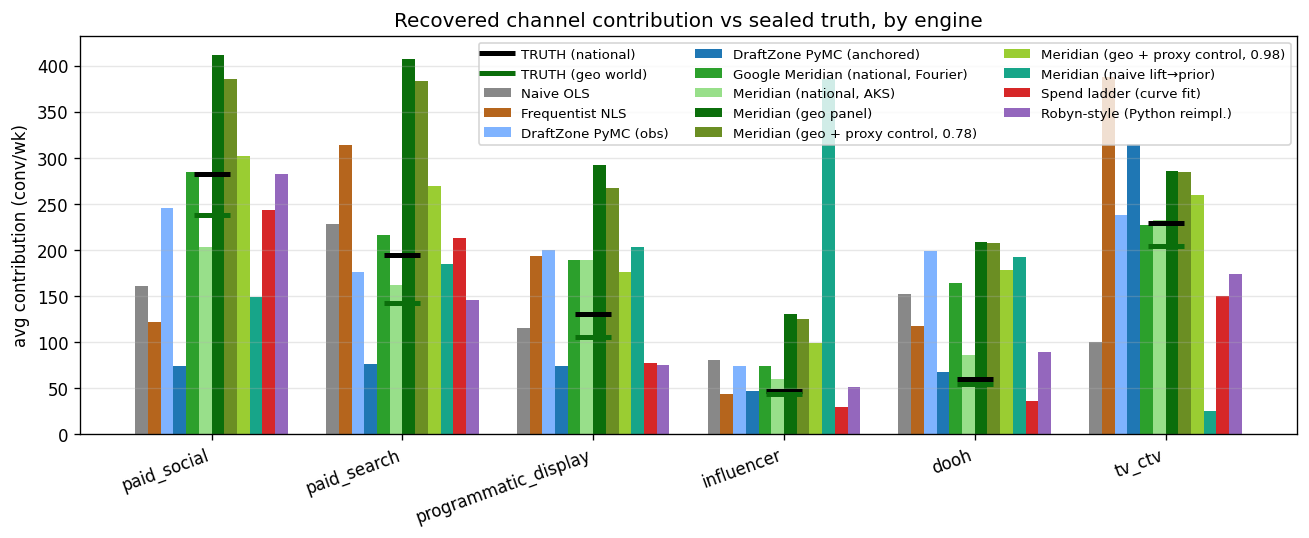
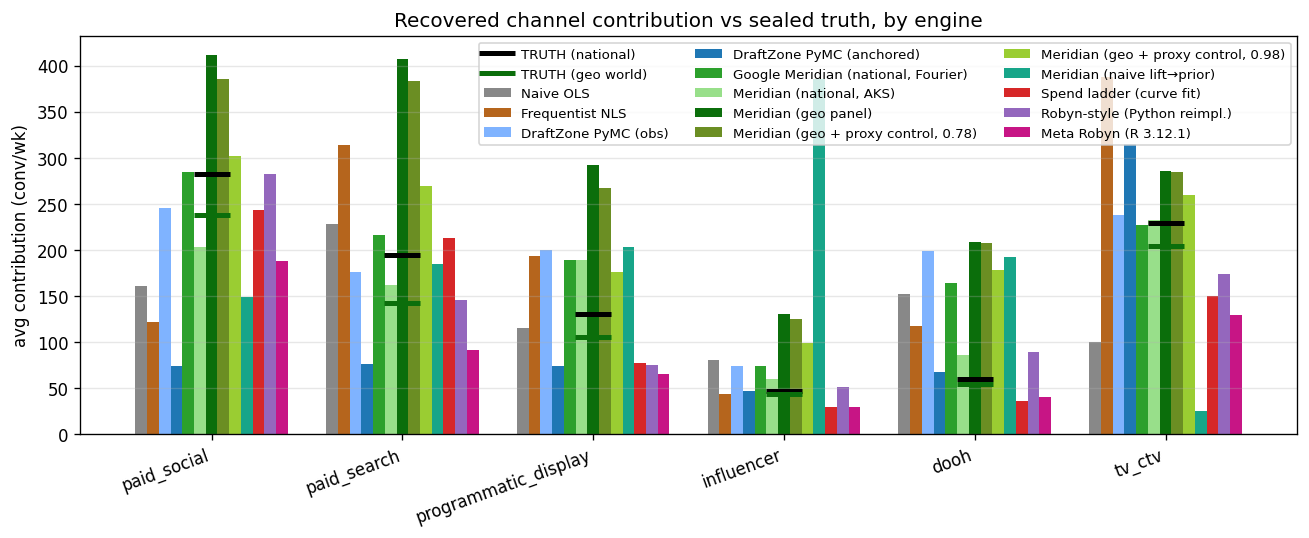
Meta Robyn graded on the leaderboard: MAE 66, bias -42%
The real Robyn run lands mid-pack with a telling split-vs-level pattern: its
channel SHARES are excellent (DECOMP.RSSD 0.025 — effect shares hug spend
shares, which here match truth), but it under-credits the media LEVEL (-42%)
because Prophet's flexible trend absorbs the seasonal-confounded variance into
the baseline. The leaner Python reimplementation (fixed trend + Fourier, not
Prophet) leaves more for media and lands closer (-13%, MAE 32) — same method,
different baseline flexibility, different answer.

- fit_meta_robyn.R: robust n_weeks fallback (rollingWindowLength can be NULL).
- engine_leaderboard: accurate, data-driven Robyn callout contrasting the real
  package and the reimplementation, framing DECOMP.RSSD as a prior and noting
  Robyn is usually run longer with human Pareto selection.
- 25 tests passing.

diff --git a/docs/engines/index.html b/docs/engines/index.html
@@ -44,7 +44,8 @@ key (a lower media total, because targeting concentrates spend into Hill saturat
 </div></header>
 <main class="wrap"><section>
 <div class="card"><img src="leaderboard.png" alt="engine comparison">
-<div class="tablewrap"><table><thead><tr><th>engine</th><th>world</th><th>type</th><th>R²</th><th>MAE/ch ↓</th><th>media bias</th><th>CIs hit</th></tr></thead><tbody><tr><td>Robyn-style (Python reimpl.)</td><td>nat'l</td><td>point</td><td>0.860</td><td>32</td><td>-13%</td><td>—</td></tr><tr><td>Meridian (national, AKS)</td><td>nat'l</td><td>Bayesian</td><td>0.913</td><td>35</td><td>-1%</td><td>6/6</td></tr><tr><td>Google Meridian (national, Fourier)</td><td>nat'l</td><td>Bayesian</td><td>0.860</td><td>36</td><td>+23%</td><td>5/6</td></tr><tr><td>Spend ladder (curve fit)</td><td>nat'l</td><td>Bayesian</td><td>—</td><td>39</td><td>-21%</td><td>4/6</td></tr><tr><td>DraftZone PyMC (obs)</td><td>nat'l</td><td>Bayesian</td><td>0.854</td><td>50</td><td>+20%</td><td>5/6</td></tr><tr><td>Naive OLS</td><td>nat'l</td><td>point</td><td>0.679</td><td>71</td><td>-11%</td><td>—</td></tr><tr><td>DraftZone PyMC (anchored)</td><td>nat'l</td><td>Bayesian</td><td>0.794</td><td>79</td><td>-31%</td><td>6/6</td></tr><tr><td>Meridian (geo + proxy control, 0.98)</td><td>geo</td><td>Bayesian</td><td>0.970</td><td>83</td><td>+63%</td><td>1/6</td></tr><tr><td>Frequentist NLS</td><td>nat'l</td><td>point</td><td>0.882</td><td>94</td><td>+25%</td><td>—</td></tr><tr><td>Meridian (geo + proxy control, 0.78)</td><td>geo</td><td>Bayesian</td><td>0.939</td><td>144</td><td>+110%</td><td>0/6</td></tr><tr><td>Meridian (naive lift→prior)</td><td>nat'l</td><td>Bayesian</td><td>0.845</td><td>149</td><td>+21%</td><td>3/6</td></tr><tr><td>Meridian (geo panel)</td><td>geo</td><td>Bayesian</td><td>0.931</td><td>158</td><td>+120%</td><td>0/6</td></tr></tbody></table></div>
+<div class="tablewrap"><table><thead><tr><th>engine</th><th>world</th><th>type</th><th>R²</th><th>MAE/ch ↓</th><th>media bias</th><th>CIs hit</th></tr></thead><tbody><tr><td>Robyn-style (Python reimpl.)</td><td>nat'l</td><td>point</td><td>0.860</td><td>32</td><td>-13%</td><td>—</td></tr><tr><td>Meridian (national, AKS)</td><td>nat'l</td><td>Bayesian</td><td>0.913</td><td>35</td><td>-1%</td><td>6/6</td></tr><tr><td>Google Meridian (national, Fourier)</td><td>nat'l</td><td>Bayesian</td><td>0.860</td><td>36</td><td>+23%</td><td>5/6</td></tr><tr><td>Spend ladder (curve fit)</td><td>nat'l</td><td>Bayesian</td><td>—</td><td>39</td><td>-21%</td><td>4/6</td></tr><tr><td>DraftZone PyMC (obs)</td><td>nat'l</td><td>Bayesian</td><td>0.854</td><td>50</td><td>+20%</td><td>5/6</td></tr><tr><td>Meta Robyn (R 3.12.1)</td><td>nat'l</td><td>point</td><td>0.842</td><td>66</td><td>-42%</td><td>—</td></tr><tr><td>Naive OLS</td><td>nat'l</td><td>point</td><td>0.679</td><td>71</td><td>-11%</td><td>—</td></tr><tr><td>DraftZone PyMC (anchored)</td><td>nat'l</td><td>Bayesian</td><td>0.794</td><td>79</td><td>-31%</td><td>6/6</td></tr><tr><td>Meridian (geo + proxy control, 0.98)</td><td>geo</td><td>Bayesian</td><td>0.970</td><td>83</td><td>+63%</td><td>1/6</td></tr><tr><td>Frequentist NLS</td><td>nat'l</td><td>point</td><td>0.882</td><td>94</td><td>+25%</td><td>—</td></tr><tr><td>Meridian (geo + proxy control, 0.78)</td><td>geo</td><td>Bayesian</td><td>0.939</td><td>144</td><td>+110%</td><td>0/6</td></tr><tr><td>Meridian (naive lift→prior)</td><td>nat'l</td><td>Bayesian</td><td>0.845</td><td>149</td><td>+21%</td><td>3/6</td></tr><tr><td>Meridian (geo panel)</td><td>geo</td><td>Bayesian</td><td>0.931</td><td>158</td><td>+120%</td><td>0/6</td></tr></tbody></table></div>
+<div class="callout"><b>Meta Robyn — the method, two implementations.</b> the <b>real Meta Robyn</b> R package (MAE 66, bias -42%, DECOMP.RSSD 0.025) and our Python reimplementation of its method (MAE 32, bias -13%). Robyn is frequentist: ridge regression on a Prophet trend/season decomposition, with <b>Nevergrad</b> searching adstock/Hill hyperparameters against two objectives — fit (NRMSE) and <b>DECOMP.RSSD</b>, its signature regulariser pulling each channel's <i>effect</i> share toward its <i>spend</i> share. The real Robyn shows a telling split-vs-level pattern: its channel <i>shares</i> are excellent (DECOMP.RSSD 0.025 — effect shares hug spend shares, which here also match truth), but it under-credits the media <i>level</i> (bias -42%) because Prophet's flexible trend soaks up the seasonal-confounded variance into the baseline. Our leaner reimplementation (fixed linear trend + Fourier season, not Prophet) leaves more for media and lands closer (-13% bias, MAE 32) — same method, different baseline flexibility, different answer. DECOMP.RSSD is itself a <b>prior</b>: here channel ROIs are similar so share-matching helps the split, but on a mix with one very high- or low-ROI channel it would mislead. And like every engine here Robyn has no experiment, so it cannot escape the confound better than its baseline controls allow — the throughline of the whole leaderboard. (Robyn is usually run longer — 2000×5 — with a human picking the model off the Pareto front; this is an automated 1000×3 knee.)</div>
 <div class="callout"><b>Meridian across the control-quality spectrum.</b> Same scale-corrected ROI prior: national + Fourier controls (MAE 36); national + Meridian's own AKS knots, no Fourier (MAE 35); the hardened multi-geo panel (MAE 158); that panel + an imperfect demand proxy (MAE 144); + a near-perfect demand proxy (MAE 83). The geo panel is Meridian's home turf — spend varies across geos within a week, cross-sectional identification the national series lacks — but this panel is <b>hardened</b>: a latent geo×time demand factor both lifts non-media conversions and draws targeted spend (realized corr(spend, demand) +0.74), the geo analogue of the spend↔season confound, graded against the geo world's own answer key. With <b>no control</b> for it, geo Meridian blows up to <b>MAE 158</b> (media bias +120%, 0/6 CIs) — high R² and confidently wrong on every channel, crediting the demand-driven conversions to the spend that chases them. An <b>imperfect</b> demand-proxy control (fidelity 0.78) barely helps — <b>MAE 144</b>, bias +110%, only ~9% of the error bought back: the confounder's pull on conversions rivals the entire media signal, so what the proxy MISSES still tracks spend and keeps over-crediting. Even a <b>near-perfect</b> proxy (fidelity 0.98) only claws back about half — <b>MAE 83</b>, bias still +63%, 1/6 CIs (~48% of the error bought back) — because the residual it misses still tracks the targeted spend. Control quality sets the ceiling, but a realistic proxy lives down near the useless end, and even the unrealistic one doesn't fully repair it. National AKS stays best-calibrated (MAE 35, bias -1%, 6/6 CIs). The throughline: more data (geo cross-section) and better controls help, but you can never tell from fit alone whether your proxy was good enough — only a <b>randomized experiment</b> breaks a confounder you can't see. That is why this project triangulates MMM with geo tests instead of trusting any single fit.</div>
 <div class="callout"><b>The spend ladder is the cure for the saturated channels (MAE 39/ch, 4/6 CIs).</b> Instead of feeding ONE lift into a prior, it runs several cells per channel at different spend levels — including cells <i>below</i> current spend — and fits the response curve through them. The bracketing turns the read into an interpolation at the operating point, so it right-sizes the saturated channels a single secant mis-credits (paid_social, paid_search). It is also the most expensive option. <a href="../ladder/index.html">See the curves and the honest cost/time analysis →</a></div>
 <div class="callout warn"><b>Naive lift-calibration mis-sets channels (media bias +21%, MAE 149/ch).</b> Feeding one geo-lift number into a model's <i>marginal</i> prior is fragile for two reasons. <b>(1) Operating point:</b> if the test markets aren't scale-consistent replicas of the national channel, the lift is measured at the wrong point and grossly over-credits (+113% on half-sat geos here; ~+20% once the geos are centered on national). <b>(2) Secant bias:</b> a detectable lift needs a big spend bump, so it measures the <i>average</i> response over that jump, not the <i>marginal</i> — understating saturated channels (flat region) and overstating headroom ones (convex region), shifting credit from saturated to unsaturated channels. The fix isn't a scalar prior: feed the lift at its measured <b>exposure levels</b> and let the model's curve translate it (our DiD-likelihood anchor; Meridian's <code>roi_calibration_period</code>), or run a <b>spend ladder</b> to trace the curve. You can't just hand a lift test to an MMM.</div>

diff --git a/scripts/engine_leaderboard.py b/scripts/engine_leaderboard.py
@@ -290,18 +290,29 @@ def main():
         if grs:
             bits.append(f"our Python reimplementation of its method (MAE {grs['mae']:.0f}, bias "
                         f"{grs['media_bias']:+.0f}%)")
+        split_txt = ""
+        if gmr:
+            split_txt = (
+                " The real Robyn shows a telling split-vs-level pattern: its channel <i>shares</i> are "
+                f"excellent (DECOMP.RSSD {rssd:.3f} — effect shares hug spend shares, which here also "
+                "match truth), but it under-credits the media <i>level</i> "
+                f"(bias {gmr['media_bias']:+.0f}%) because Prophet's flexible trend soaks up the "
+                "seasonal-confounded variance into the baseline. Our leaner reimplementation (fixed "
+                "linear trend + Fourier season, not Prophet) leaves more for media and lands closer"
+                + (f" ({grs['media_bias']:+.0f}% bias, MAE {grs['mae']:.0f})" if grs else "")
+                + " — same method, different baseline flexibility, different answer.")
         robyn_note = (
             '<div class="callout"><b>Meta Robyn — the method, two implementations.</b> ' + " and ".join(bits)
             + ". Robyn is frequentist: ridge regression on a Prophet trend/season decomposition, with "
             "<b>Nevergrad</b> searching adstock/Hill hyperparameters against two objectives — fit "
-            "(NRMSE) and <b>DECOMP.RSSD</b>, its signature regulariser that pulls each channel's "
-            "<i>effect</i> share toward its <i>spend</i> share. Applying this project's lessons: we feed "
-            "Robyn the same Prophet seasonality that lets it dodge the spend↔season confound (the "
-            "control no engine can skip), and we recognise DECOMP.RSSD as a <b>prior</b> — here channel "
-            "ROIs happen to be similar, so share-matching is a well-matched prior and Robyn lands among "
-            "the better national engines; on a mix with one very high- or low-ROI channel it would "
-            "mislead. Like every engine here it has no experiment, so it cannot escape the confound any "
-            "better than its controls allow — the throughline of the whole leaderboard.</div>")
+            "(NRMSE) and <b>DECOMP.RSSD</b>, its signature regulariser pulling each channel's "
+            "<i>effect</i> share toward its <i>spend</i> share." + split_txt
+            + " DECOMP.RSSD is itself a <b>prior</b>: here channel ROIs are similar so share-matching "
+            "helps the split, but on a mix with one very high- or low-ROI channel it would mislead. And "
+            "like every engine here Robyn has no experiment, so it cannot escape the confound better "
+            "than its baseline controls allow — the throughline of the whole leaderboard. (Robyn is "
+            "usually run longer — 2000×5 — with a human picking the model off the Pareto front; this is "
+            "an automated 1000×3 knee.)</div>")
 
     gt_total = sum(gtd[f"media_{c}"] for c in CHANNELS)
     html = f"""<!doctype html><html lang="en"><head><meta charset="utf-8">